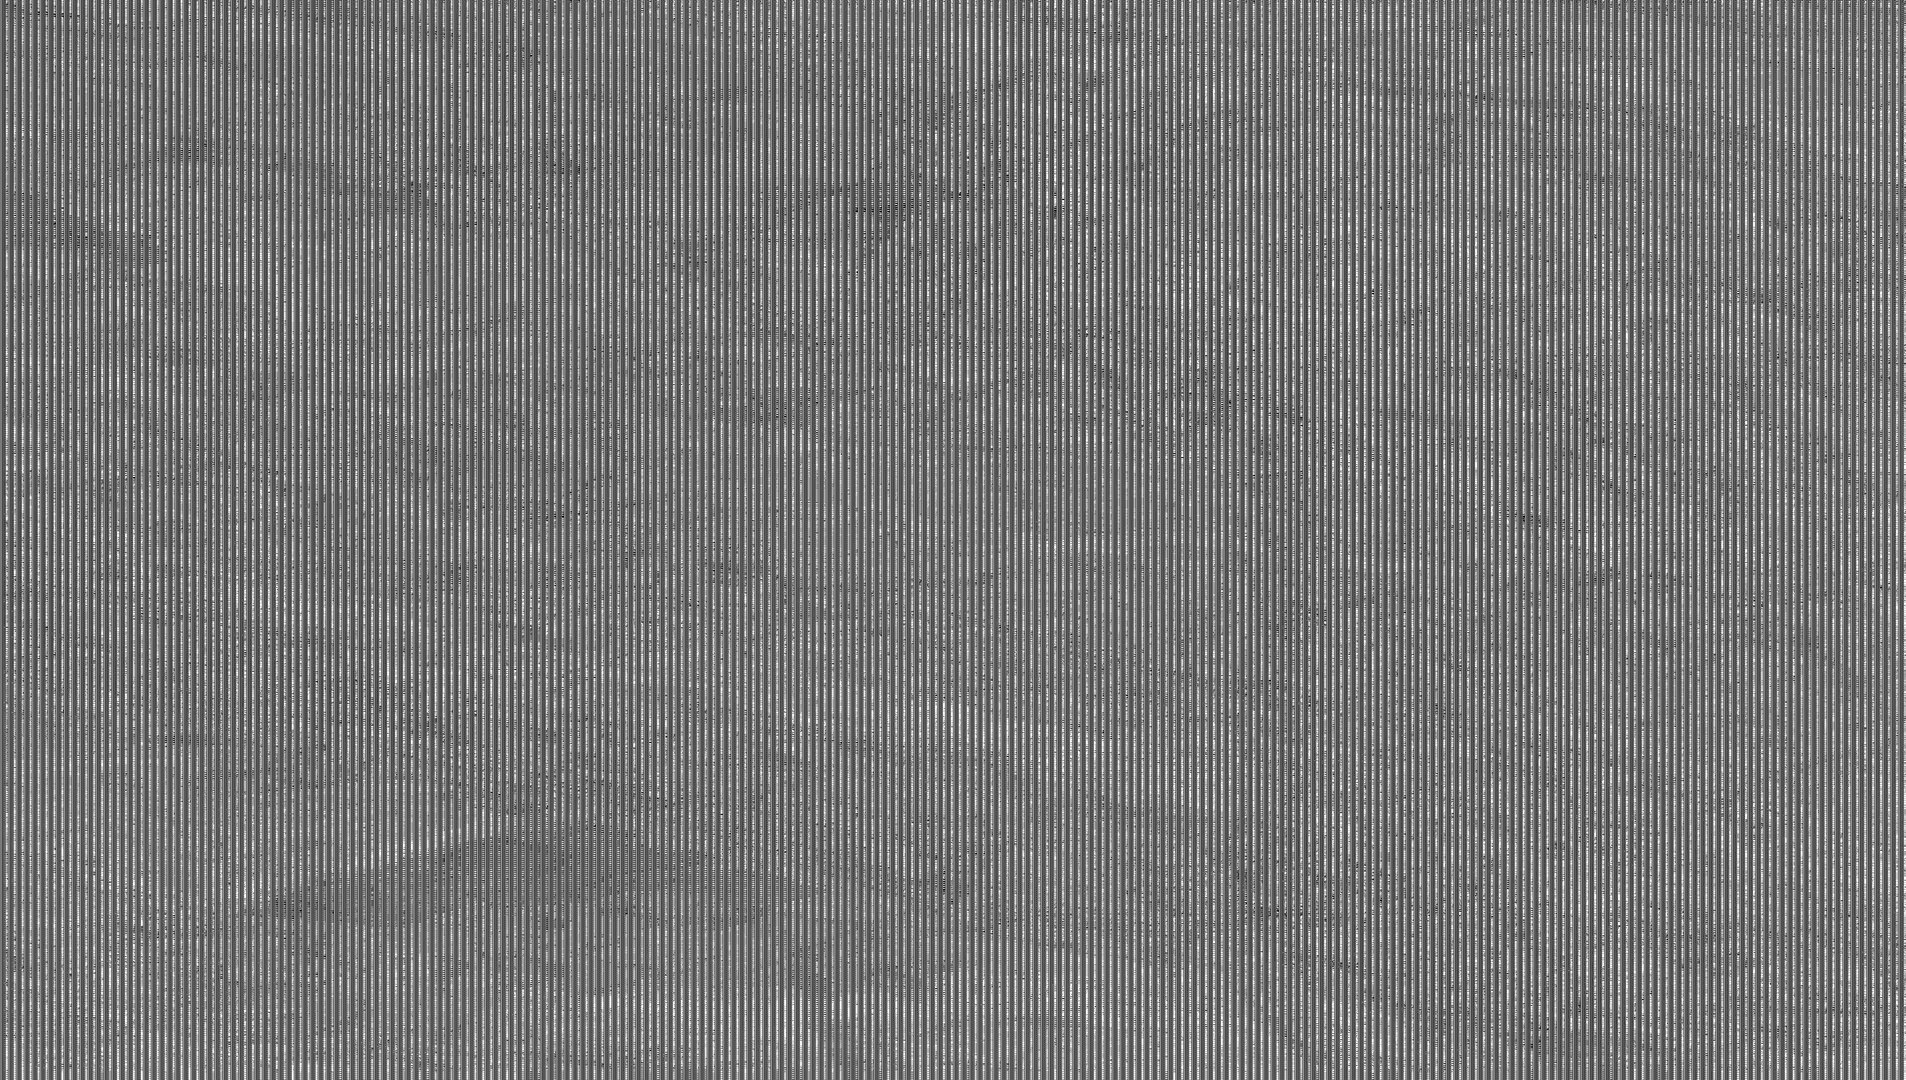
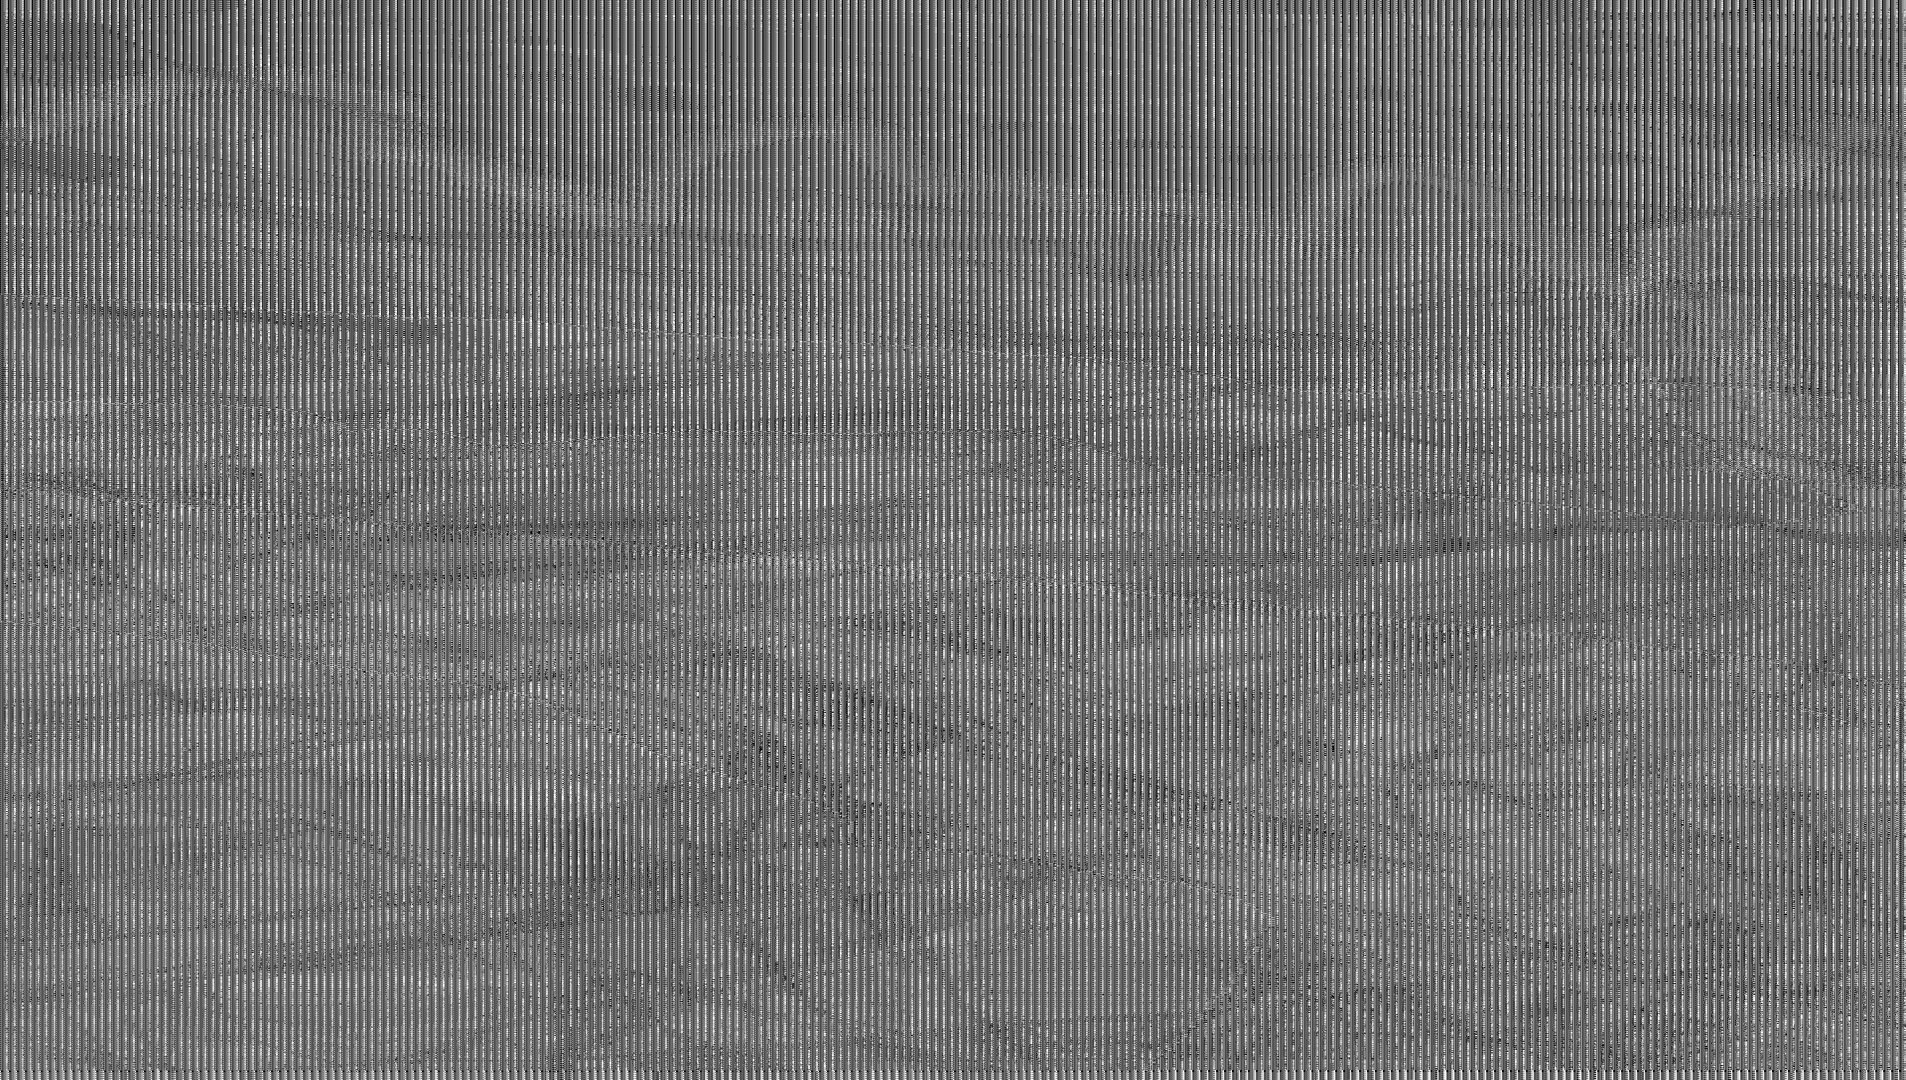
fix(dice): 主页默认回到「剑」；换上骰子 1/2 的完整画面
- diceFace 初值 -1 → 0：/home 未投掷时显示默认那张（剑），不再用当月形象
- 骰子 1（雏田）原来抽的是 new_0002_Calque-3 暗层（亮度 38、缺眼睛），
  改用同包里 a.nwm_ 那张完整画面（亮度 149）
- 骰子 2（玛琪玛）原来抽的是「背景」层（只有场景），改用「人物」层（亮度 113）

diff --git a/src/context/BackgroundContext.jsx b/src/context/BackgroundContext.jsx
@@ -28,10 +28,10 @@ export function BackgroundProvider({ children }) {
    */
   const [month, setMonth] = useState(() => activeMonth())
   /*
-   * 骰子点数：-1 = 还没投（主页用「当月形象」），1–6 = 投出的点数，0 = 默认那张（剑）。
+   * 骰子点数：0 = 默认那张（剑），1–6 = 投出的点数，-1 = 让位给当月形象。
    * 只作用于 /home 站点索引页的背景，不影响首屏。
    */
-  const [diceFace, setDiceFace] = useState(-1)
+  const [diceFace, setDiceFace] = useState(0)
 
   // 换页时清掉区块覆盖，否则上一页的区块场景会跟着过来
   useEffect(() => {
@@ -108,7 +108,7 @@ export function useBackgroundScene() {
       sectionScene: null,
       month: activeMonth(),
       setMonth: () => {},
-      diceFace: -1,
+      diceFace: 0,
       setDiceFace: () => {},
     }
   )

diff --git a/src/__tests__/backgroundStage.test.jsx b/src/__tests__/backgroundStage.test.jsx
@@ -126,6 +126,23 @@ describe('月份联动（首屏罗盘 / 信封区 / 关于我 必须同一个月
   })
 })
 
+describe('骰子默认状态', () => {
+  it('未投掷时是「剑」那张（diceFace = 0），不是当月', () => {
+    function Probe() {
+      const { diceFace } = useBackgroundScene()
+      return <span data-testid="face">{diceFace}</span>
+    }
+    const { getByTestId } = render(
+      <MemoryRouter>
+        <BackgroundProvider>
+          <Probe />
+        </BackgroundProvider>
+      </MemoryRouter>,
+    )
+    expect(getByTestId('face').textContent).toBe('0')
+  })
+})
+
 describe('同场景轮换（每页多张图）', () => {
   it('同一页停留够久会换到下一张', () => {
     vi.useFakeTimers()
